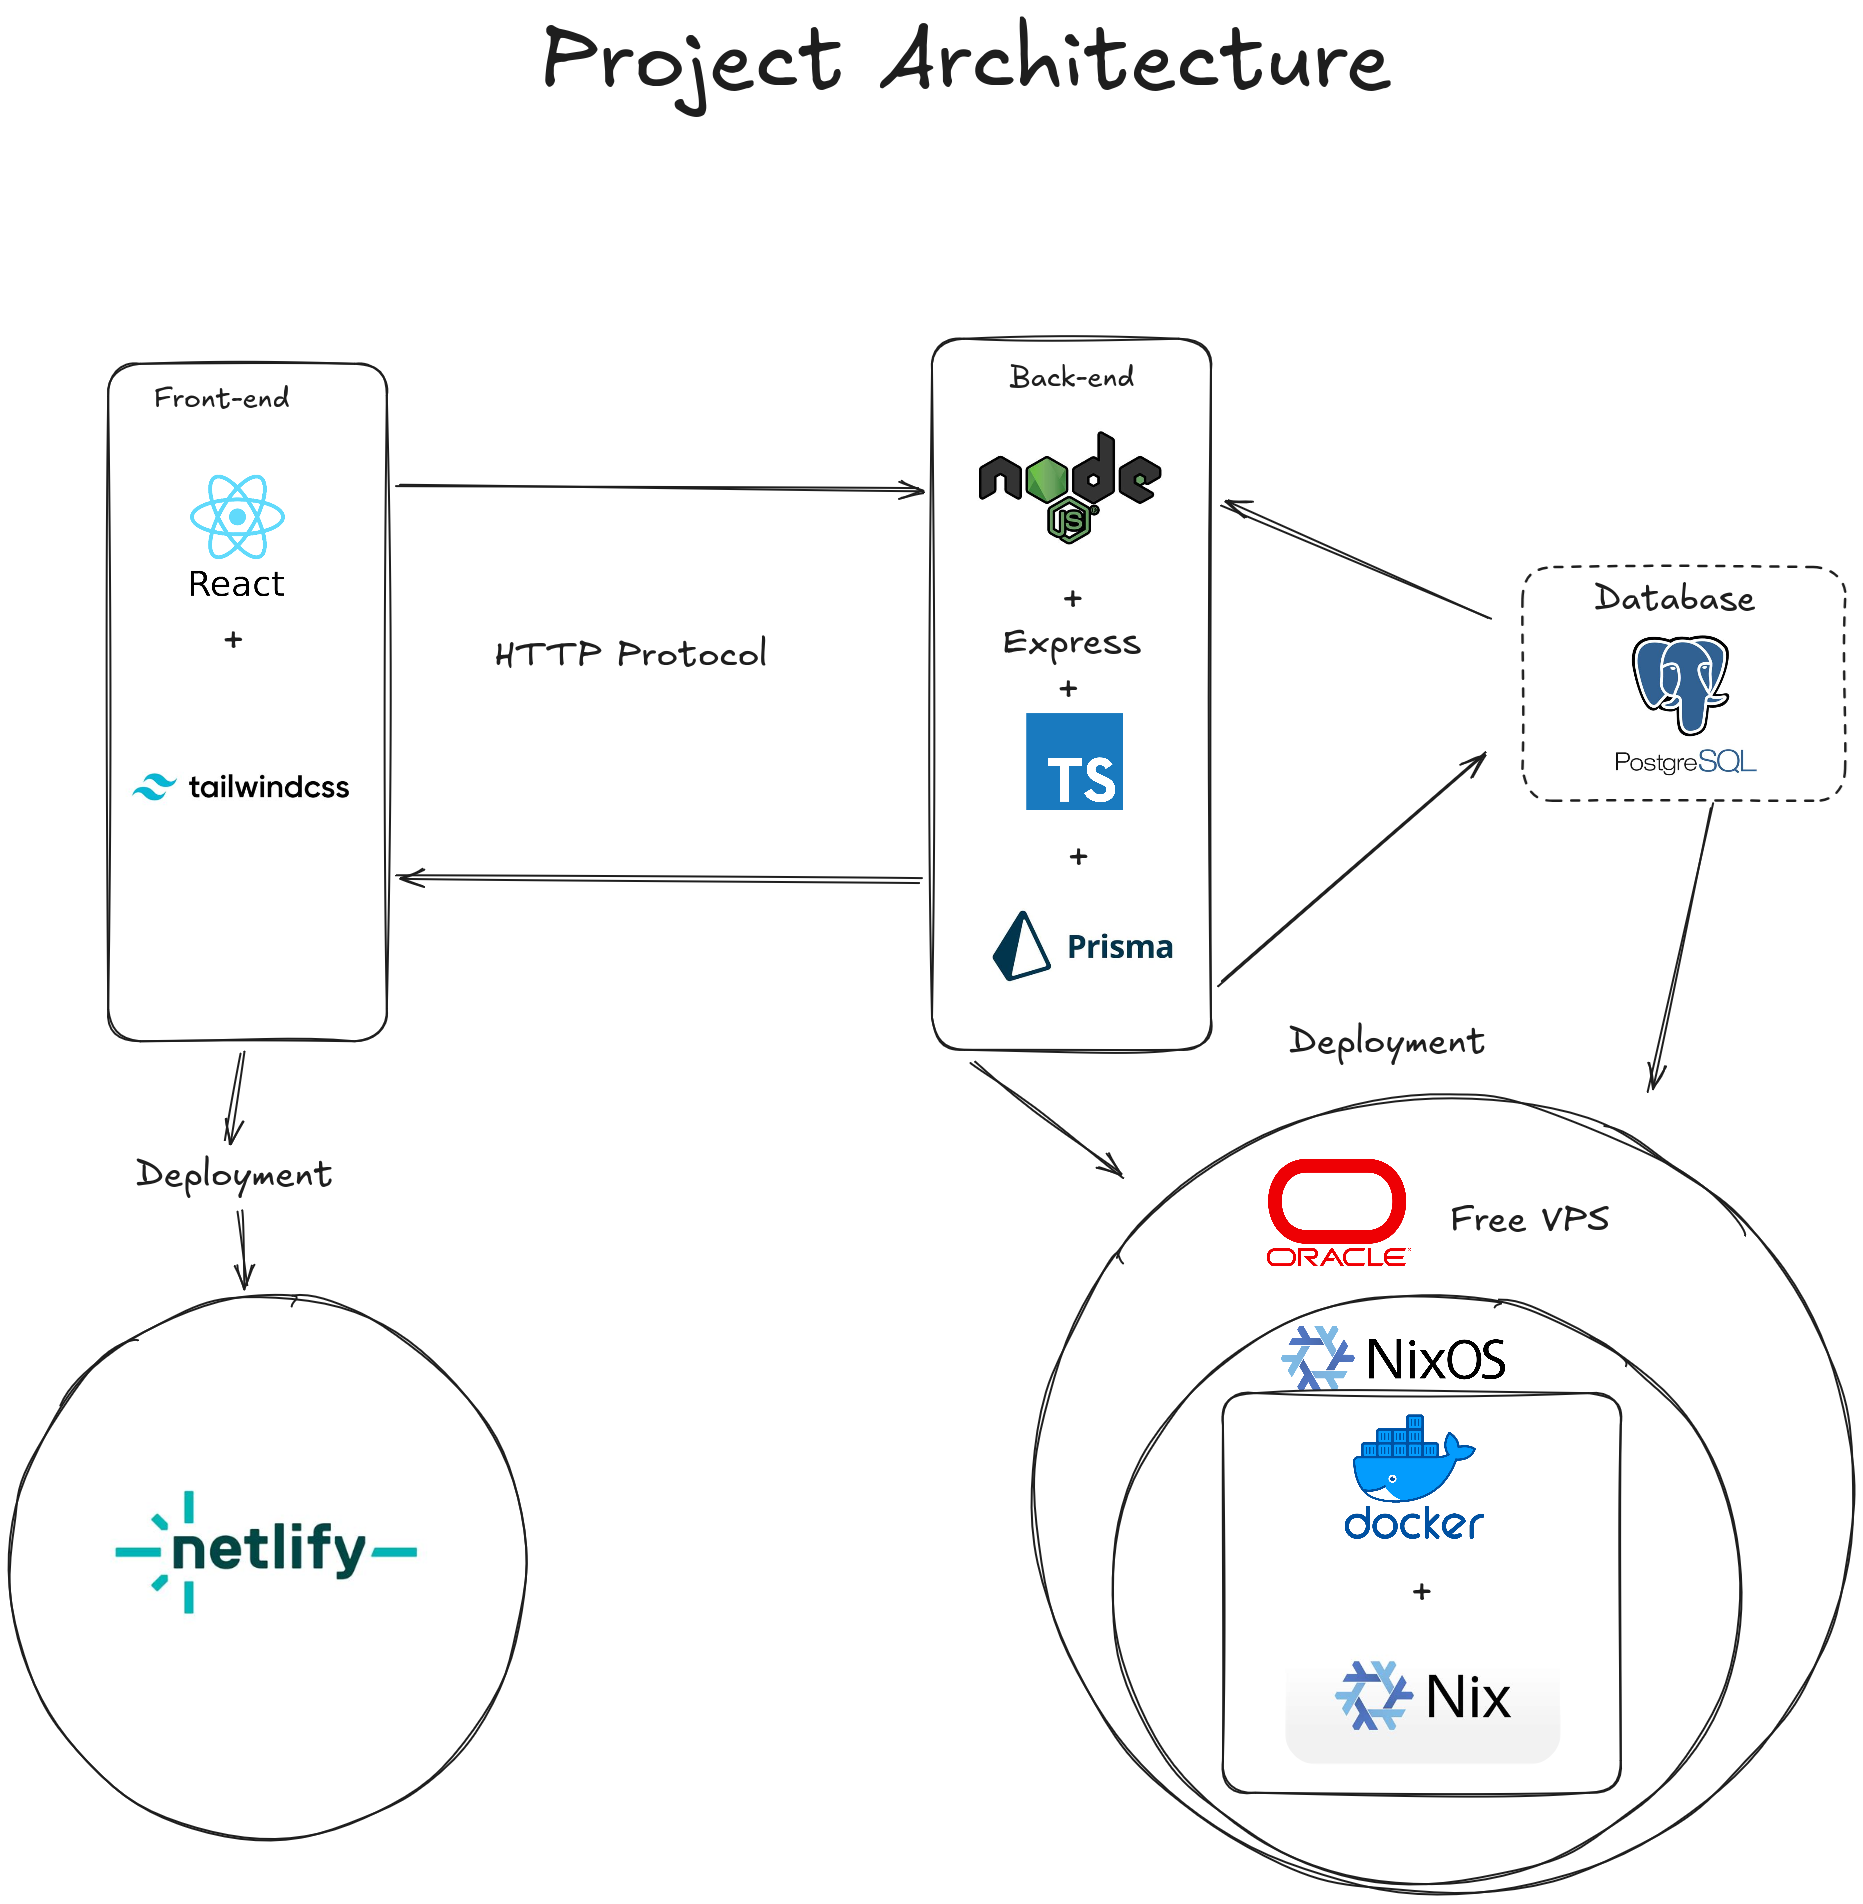
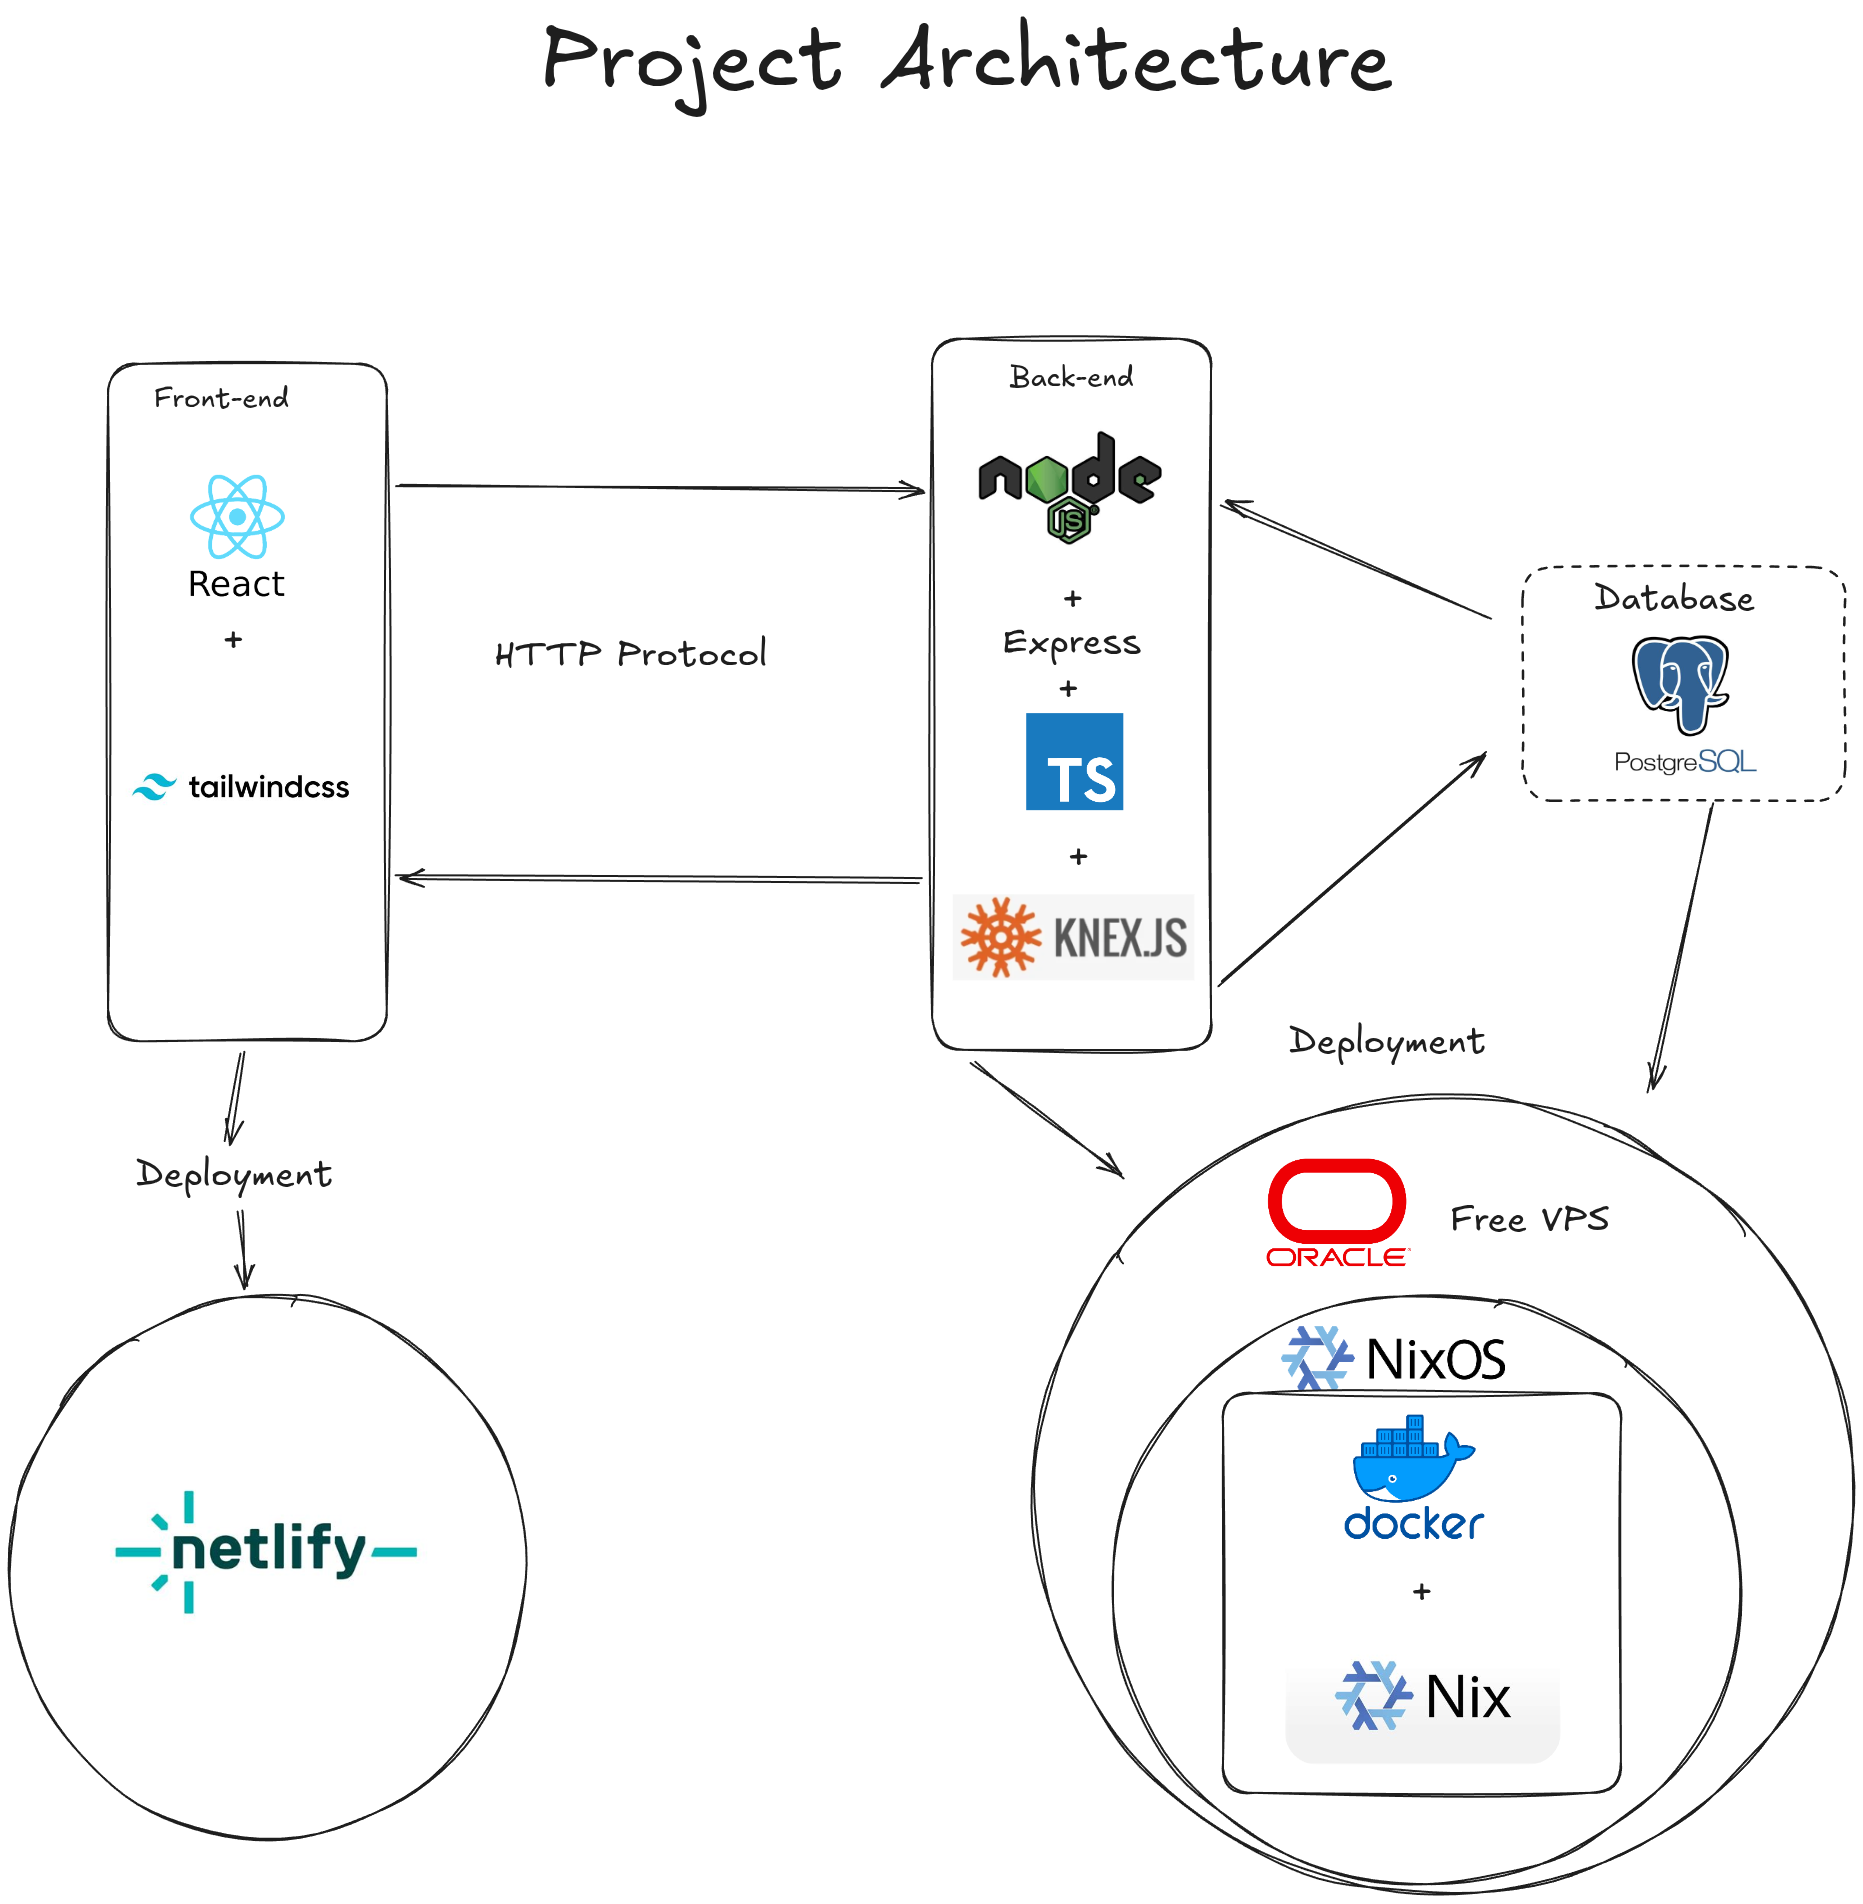
Project Architecture Changed
Prisma ORM changed for Knex ORM for facility and comodity

Changed region(s): [[0.4981, 0.4648, 0.6538, 0.5268], [0.5604, 0.2479, 0.5915, 0.2789]]

diff --git a/docs/SDLC/back-end/README.md b/docs/SDLC/back-end/README.md
@@ -14,5 +14,4 @@ Express is a JavaScript framework that make really easy to build APIs, is conjuc
 - `express-slow-down` Complement with rate-limiting, slow down responses after many repeted attempts instead of blocking.
 - `cors` Allows to control which domains can call the API
 - `helmet` set security headers to mitigate common web attacks.
-- `dotenv` let us use environment variables for the API configuration.
-- `Prisma` an ORM to make postgresql transactions more secure.
+- `Knex.js` an ORM to make postgresql transactions more secure.
